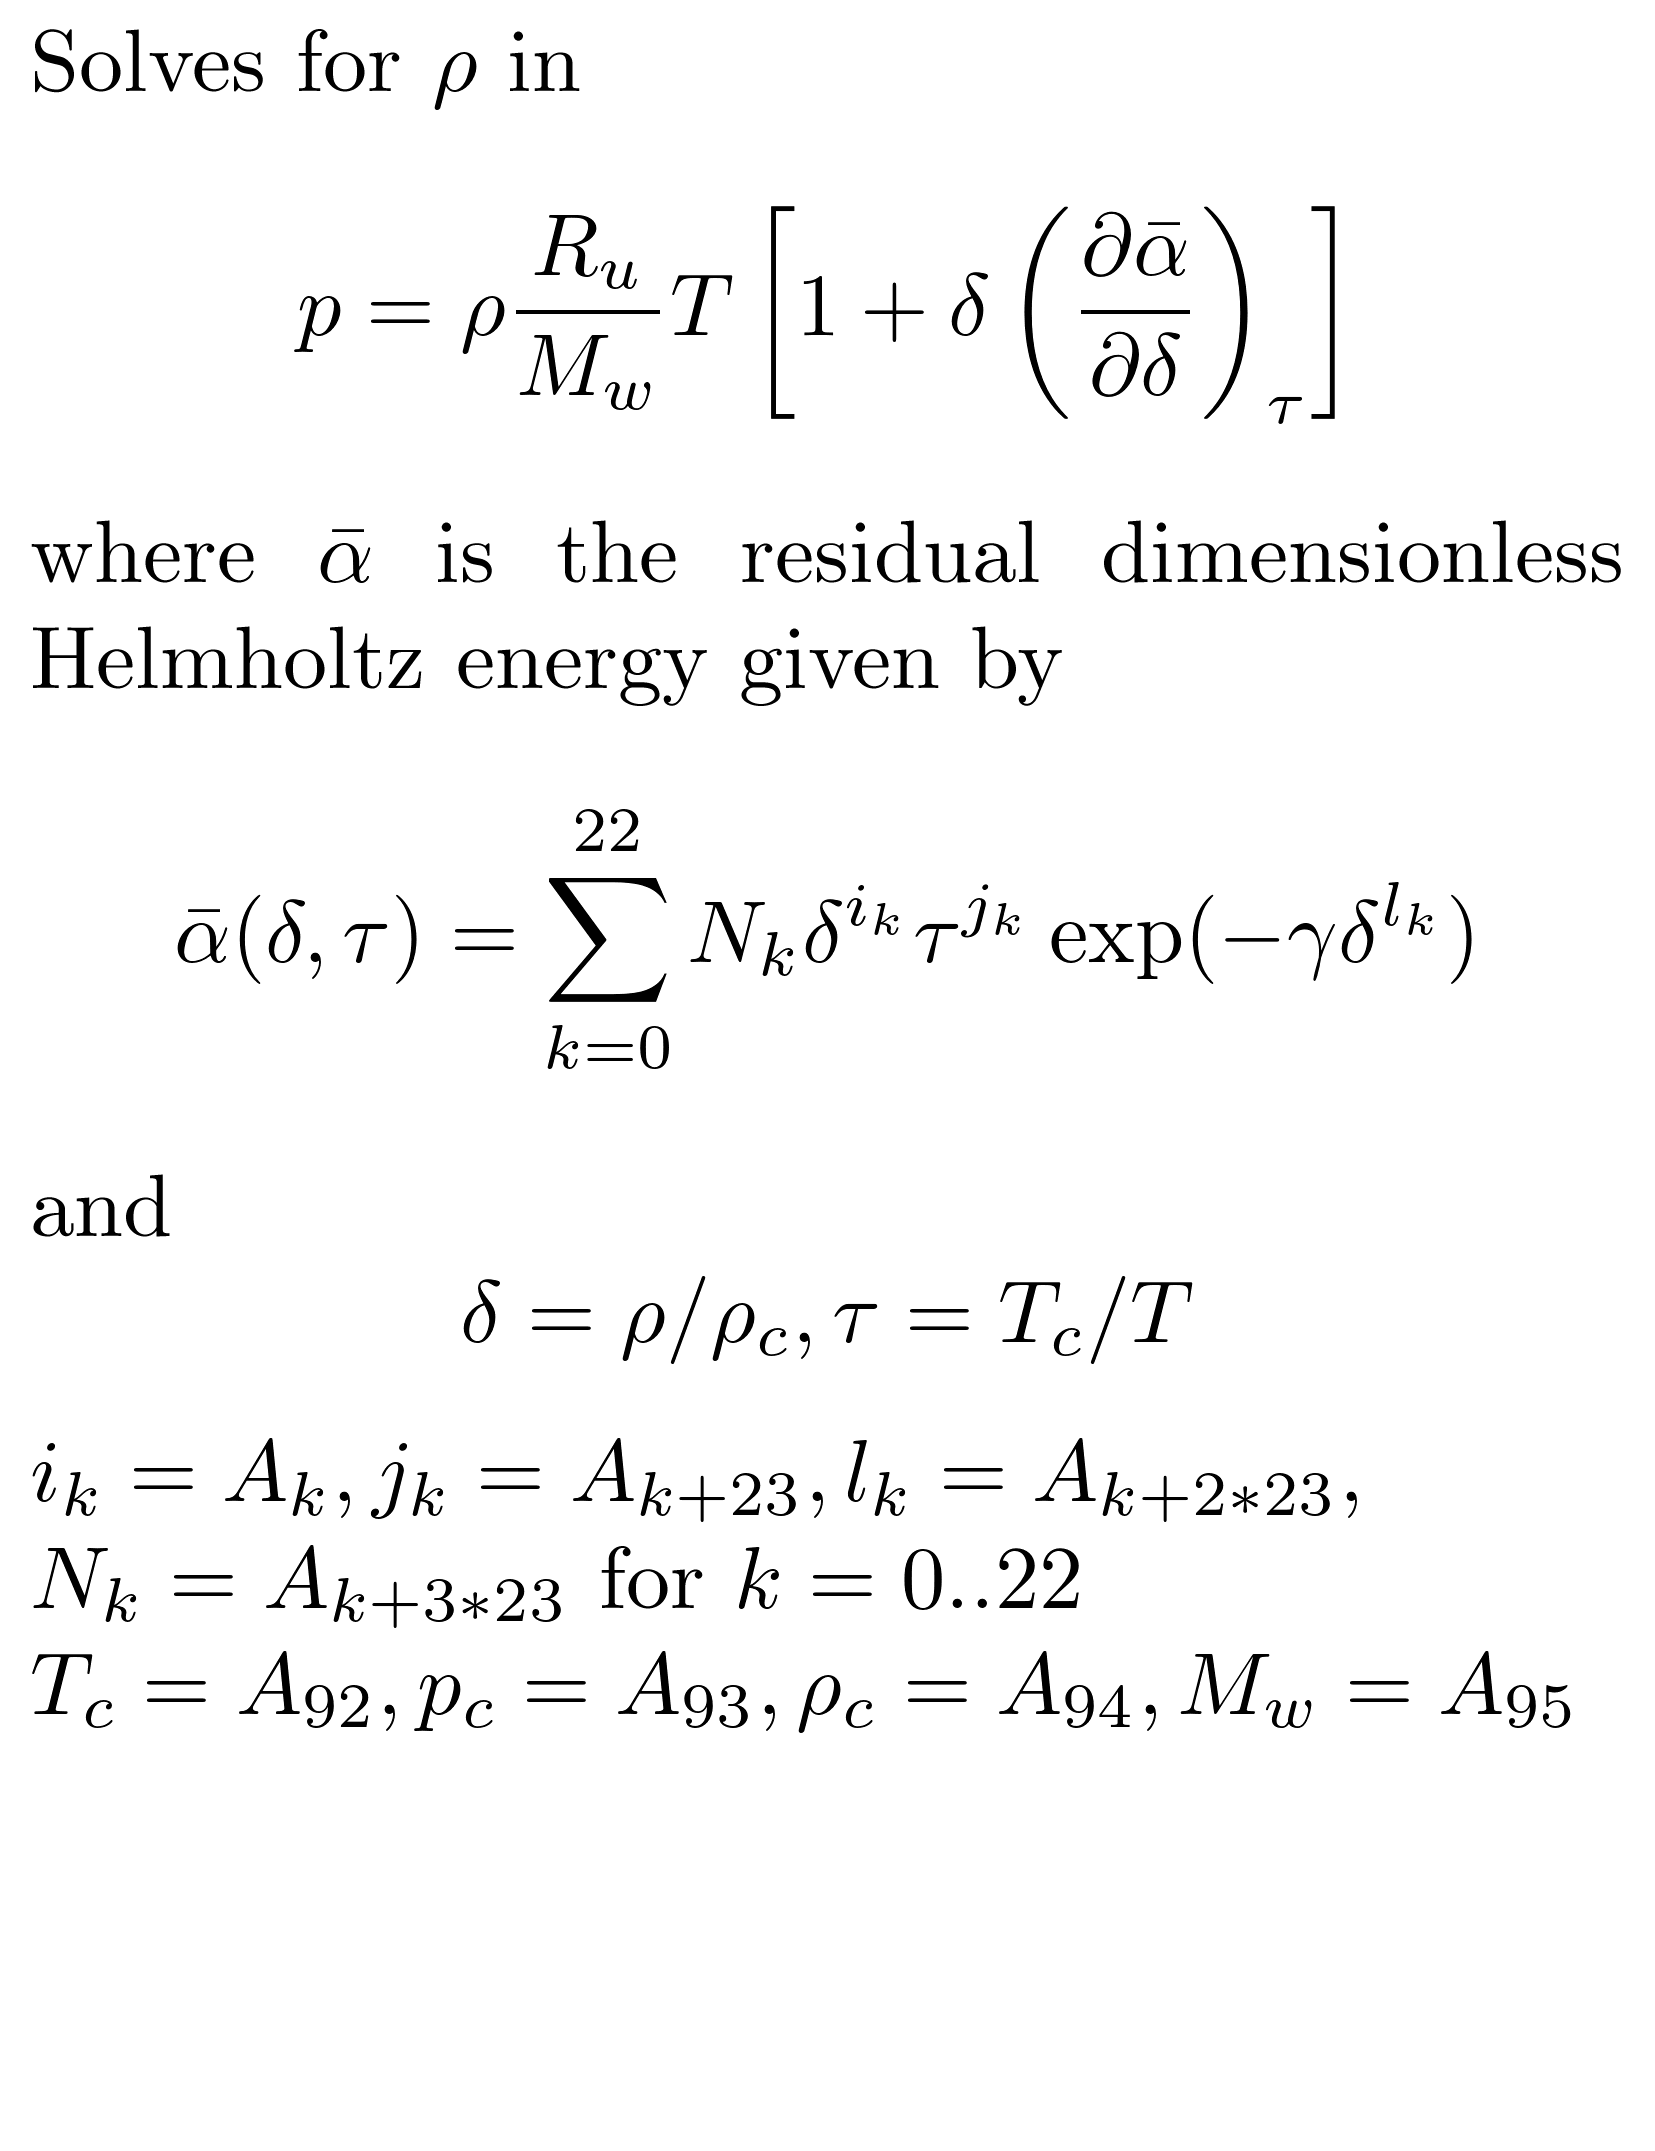
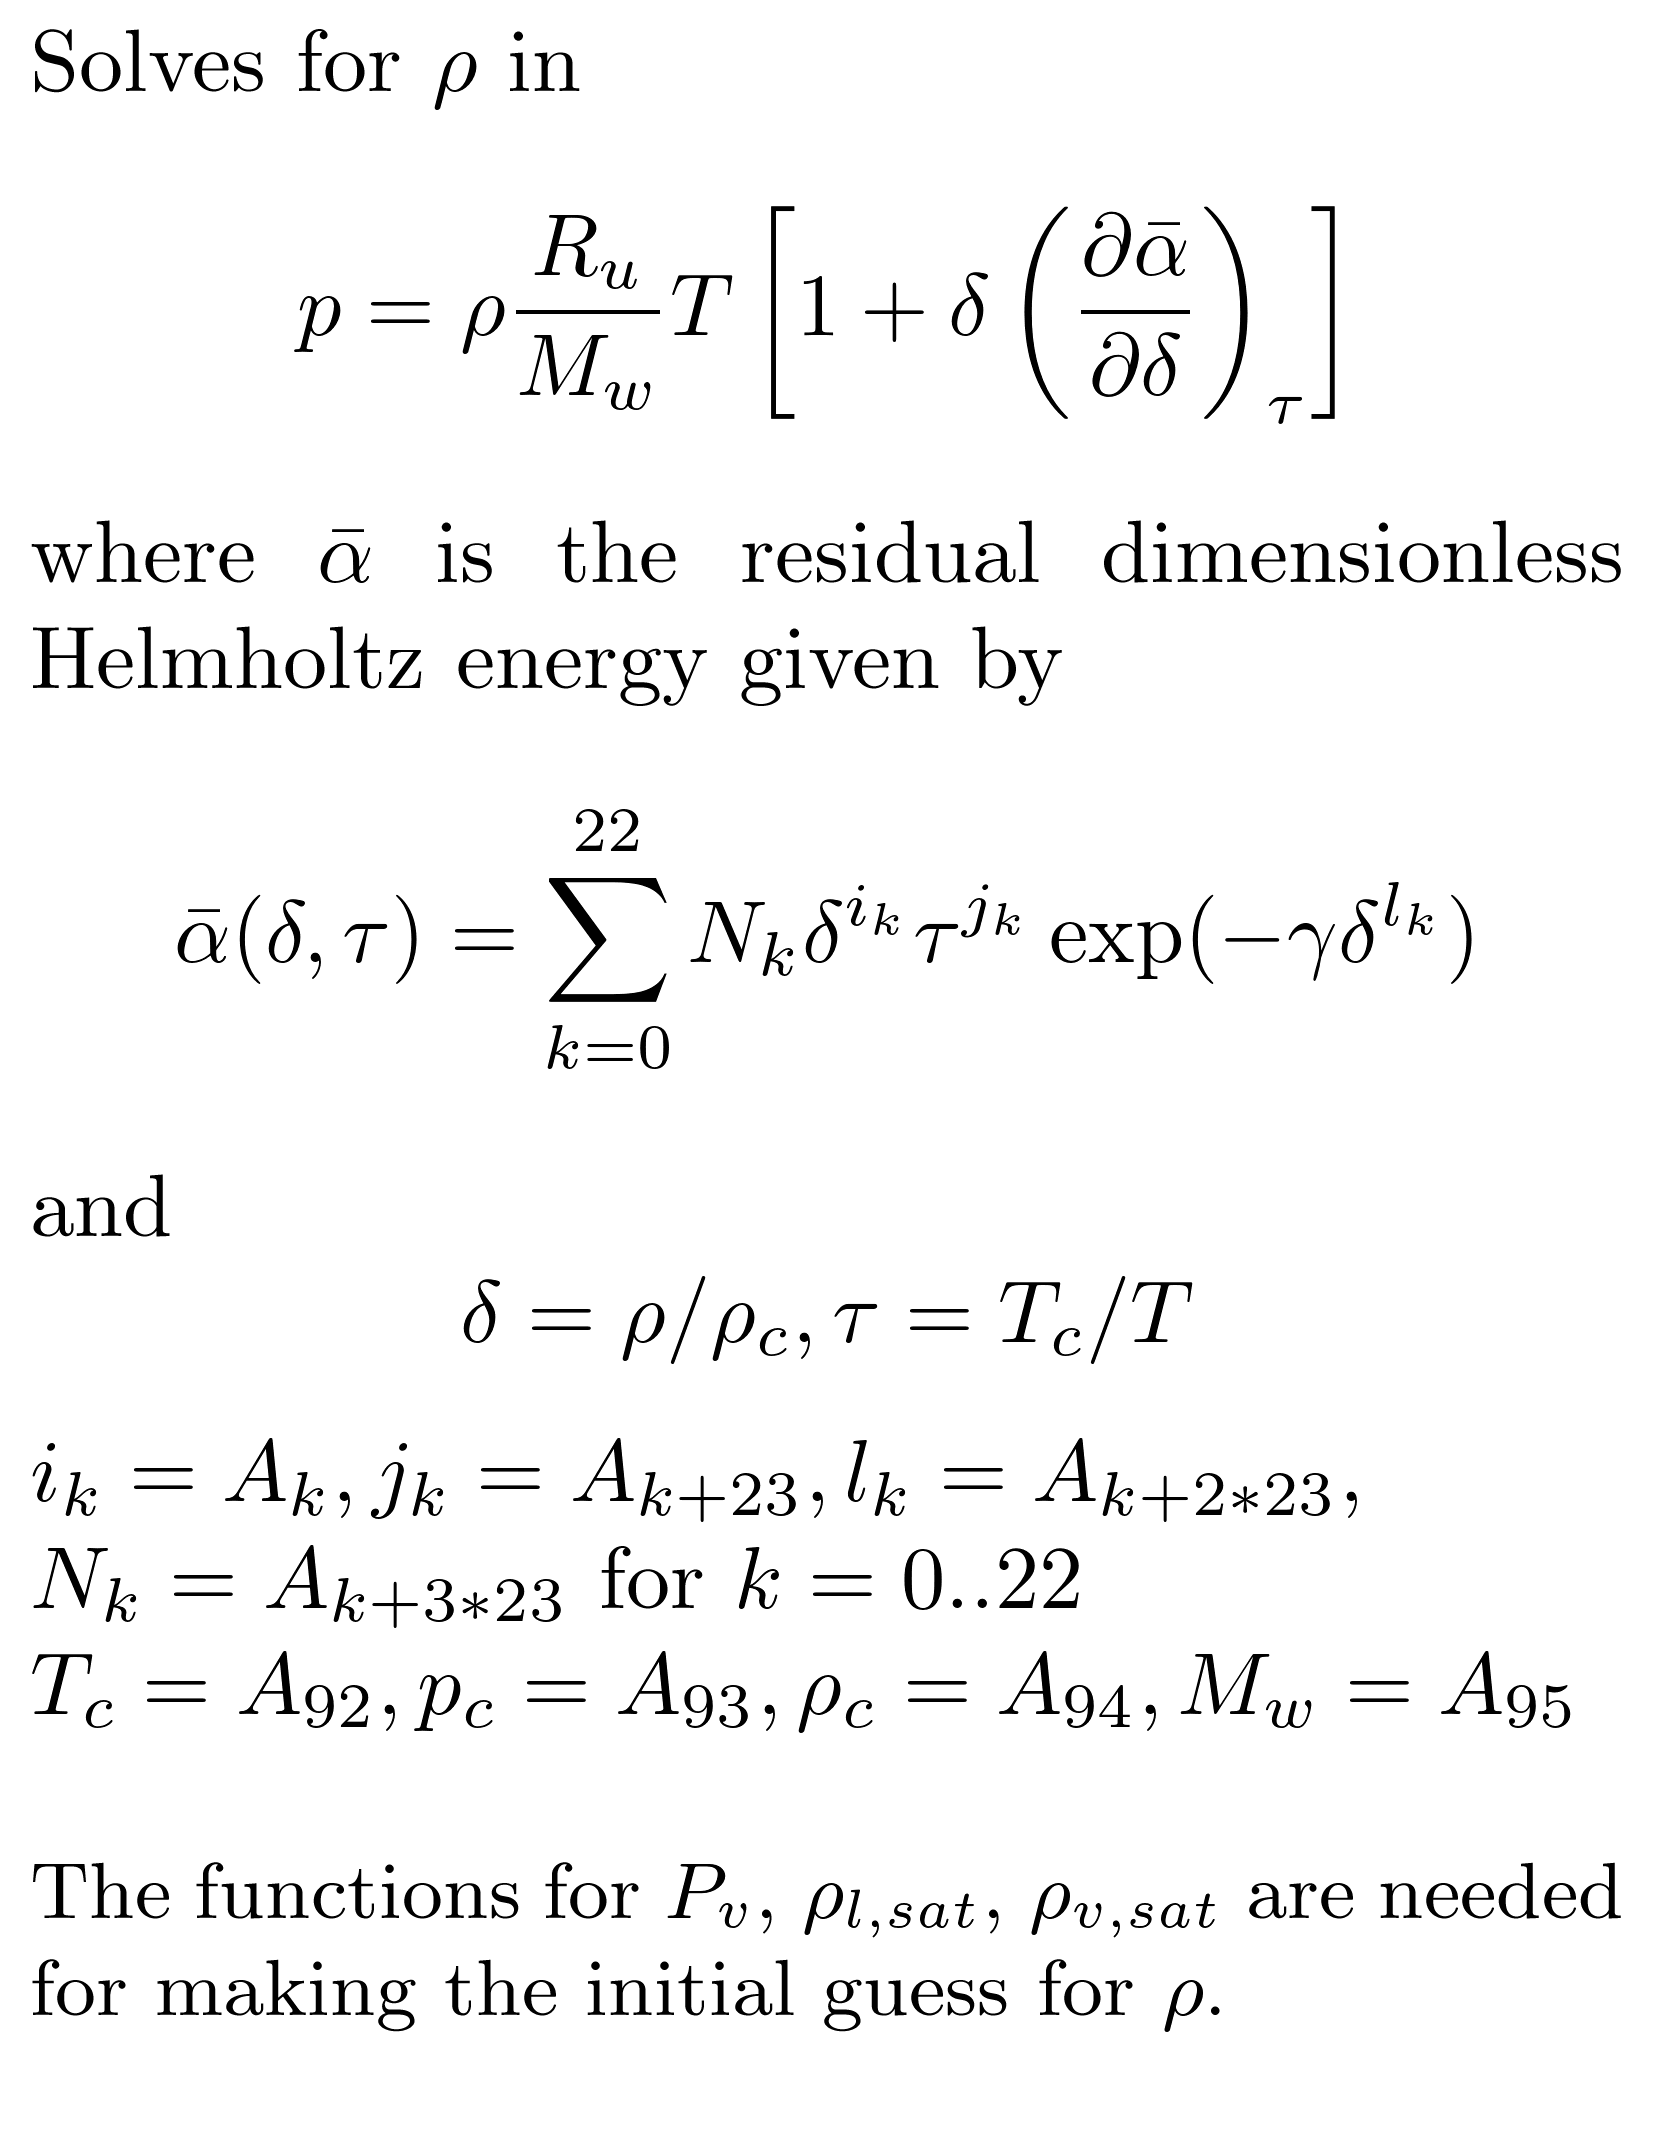
added more text to fundamentalRho equation

diff --git a/polymorph/polymorph/fundamentalJacobsenRho.tex b/polymorph/polymorph/fundamentalJacobsenRho.tex
@@ -31,7 +31,10 @@ and
 \]
 $i_k = A_k, j_k = A_{k+23}, l_k = A_{k+2*23},$\\
 $N_k = A_{k+3*23}$ for $k=0..22$\\
-$T_c = A_{92}, p_c = A_{93}, \rho_c = A_{94}, M_w = A_{95}$
-\vspace{34pt}\\
+$T_c = A_{92}, p_c = A_{93}, \rho_c = A_{94}, M_w = A_{95}$\\
+
+\small{The functions for $P_v$, $\rho_{l,sat}$, $\rho_{v,sat}$ are needed for 
+making the initial guess for $\rho$.}
+\vspace{0pt}\\
 }
 \end{document}
